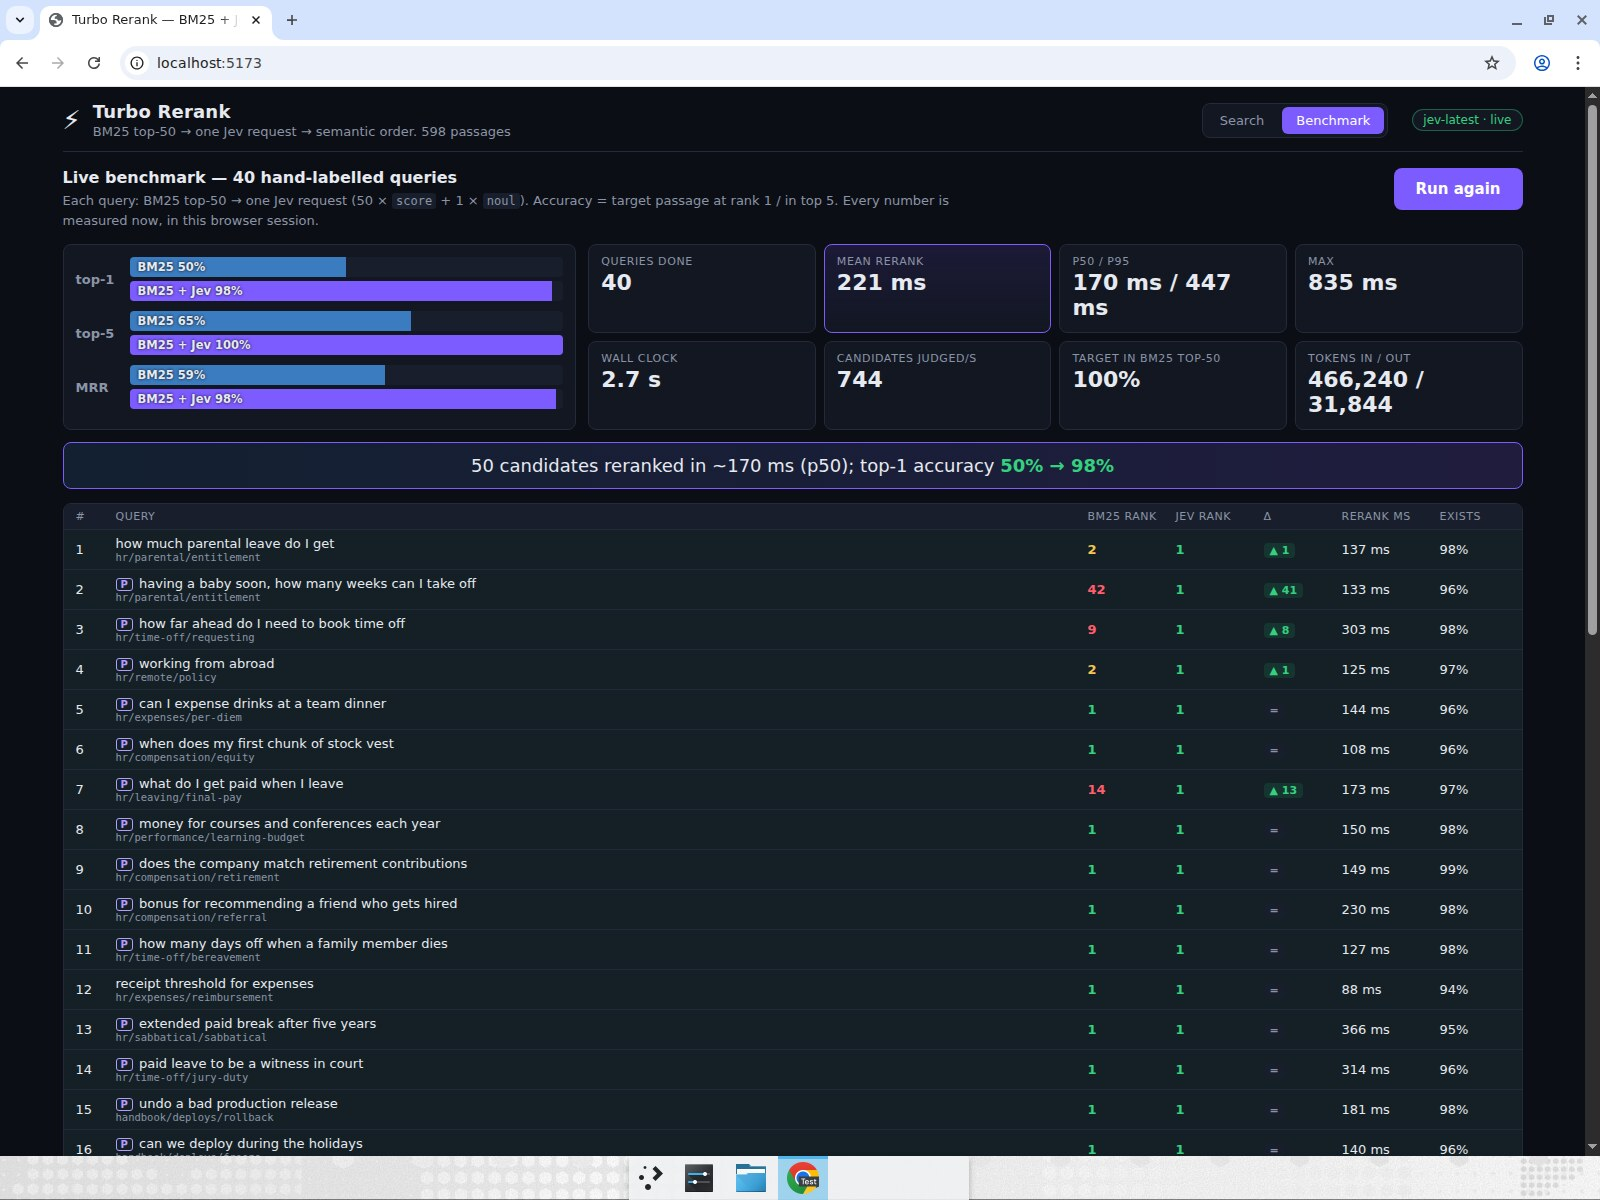
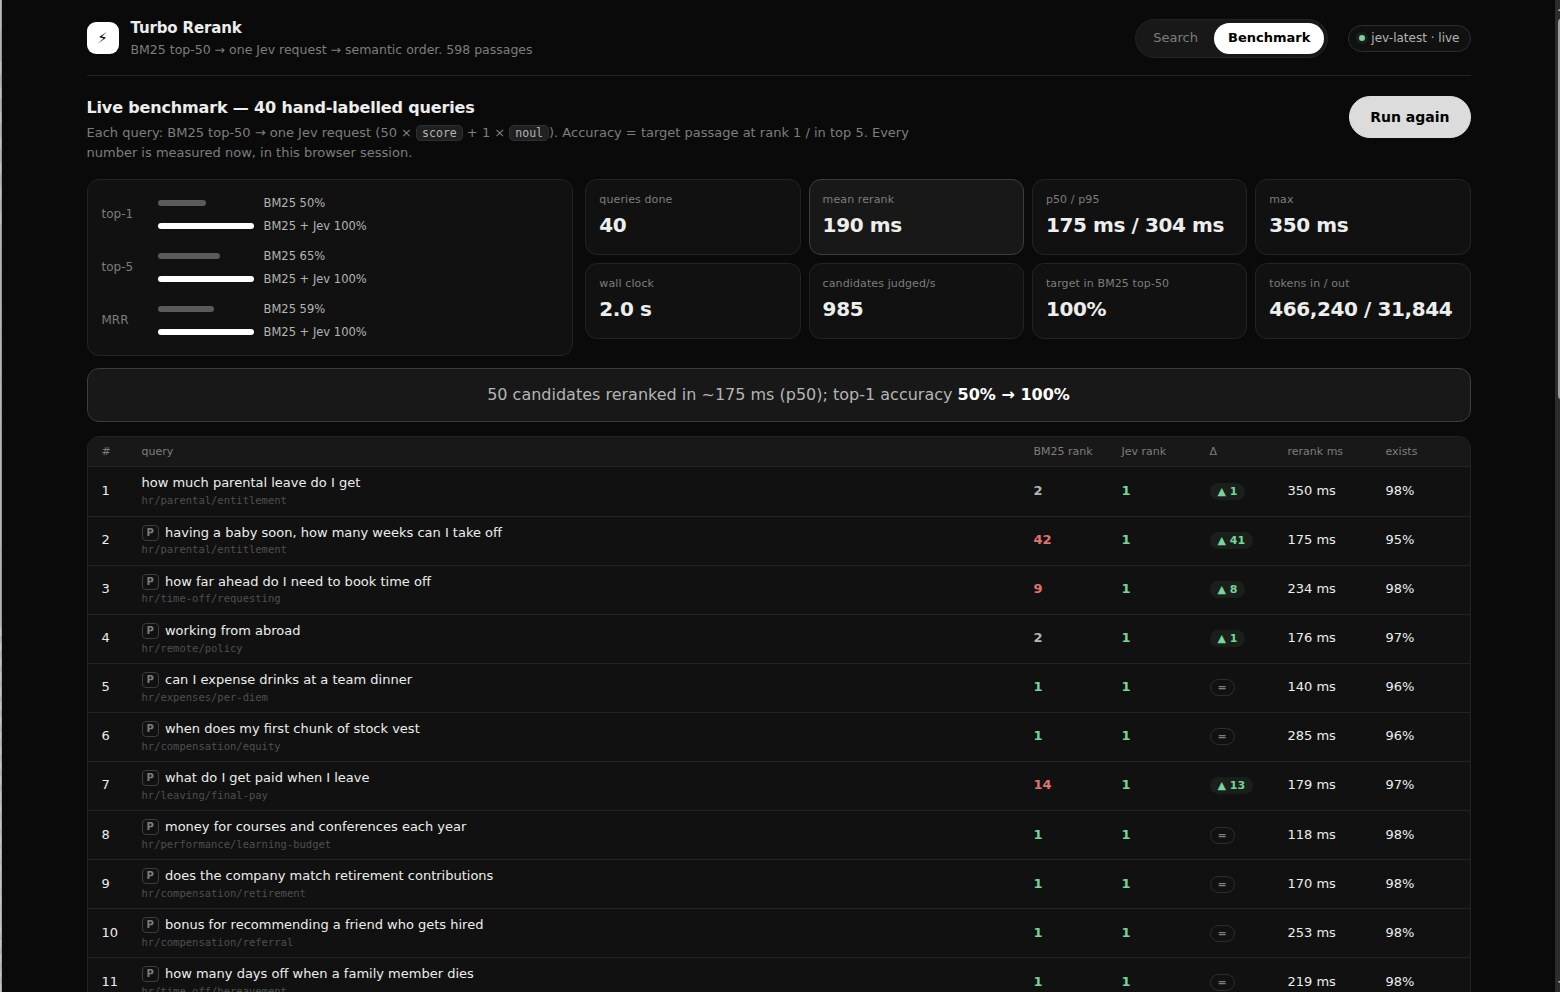
turbo-rerank: monochrome dark UI restyle

diff --git a/turbo-rerank/src/styles.css b/turbo-rerank/src/styles.css
@@ -1,133 +1,160 @@
 :root {
-  --bg: #0b0e14;
-  --panel: #121722;
-  --panel-2: #181e2b;
-  --border: #232b3a;
-  --text: #e6e9ef;
-  --muted: #8b94a7;
-  --accent: #7c5cff;
-  --accent-2: #b39cff;
-  --bm25: #4aa3ff;
-  --good: #35d07f;
-  --ok: #f5c451;
-  --bad: #ff5d6c;
-  --l0: #3a4256;
-  --l1: #f5c451;
-  --l2: #4aa3ff;
-  --l3: #35d07f;
-  font-family: ui-sans-serif, system-ui, -apple-system, "Segoe UI", Roboto, Inter, sans-serif;
+  --bg: #0a0a0a;
+  --panel: #111111;
+  --panel-2: #181818;
+  --panel-3: #202020;
+  --border: #232323;
+  --border-2: #2e2e2e;
+  --border-3: #3d3d3d;
+  --text: #ededed;
+  --text-2: #b4b4b4;
+  --muted: #7d7d7d;
+  --faint: #4f4f4f;
+  --fg: #ffffff;
+  --good: #7ad39b;
+  --bad: #e0716f;
+  --good-bg: rgba(122, 211, 155, 0.08);
+  --bad-bg: rgba(224, 113, 111, 0.08);
+  --l0: #2e2e2e;
+  --l1: #5a5a5a;
+  --l2: #9a9a9a;
+  --l3: #ffffff;
+  --radius: 12px;
+  --radius-sm: 8px;
+  --mono: ui-monospace, "SF Mono", SFMono-Regular, Menlo, Consolas, monospace;
+  font-family: Inter, ui-sans-serif, system-ui, -apple-system, "Segoe UI", Roboto, Helvetica, Arial, sans-serif;
   font-size: 13px;
+  line-height: 1.45;
   color-scheme: dark;
+  -webkit-font-smoothing: antialiased;
 }
 
 * { box-sizing: border-box; }
 html, body, #root { margin: 0; min-height: 100%; background: var(--bg); color: var(--text); }
-code { font-family: ui-monospace, SFMono-Regular, Menlo, monospace; background: var(--panel-2); padding: 1px 4px; border-radius: 3px; font-size: 12px; }
-button { font: inherit; cursor: pointer; }
+::selection { background: #3a3a3a; }
+code { font-family: var(--mono); background: var(--panel-3); border: 1px solid var(--border-2); padding: 0 5px; border-radius: 5px; font-size: 11.5px; color: var(--text-2); }
+button { font: inherit; cursor: pointer; color: inherit; }
+button:focus-visible, input:focus-visible { outline: 2px solid var(--border-3); outline-offset: 1px; }
 
-.app { max-width: 1500px; margin: 0 auto; padding: 14px 20px 40px; }
+.app { max-width: 1440px; margin: 0 auto; padding: 18px 28px 56px; }
 
-.topbar { display: flex; align-items: center; gap: 24px; padding-bottom: 12px; border-bottom: 1px solid var(--border); }
-.brand { display: flex; align-items: center; gap: 12px; flex: 1; }
-.logo { font-size: 26px; }
-.brand h1 { margin: 0; font-size: 18px; letter-spacing: 0.2px; }
-.brand p { margin: 2px 0 0; color: var(--muted); }
-.tabs { display: flex; gap: 4px; background: var(--panel); border: 1px solid var(--border); border-radius: 8px; padding: 3px; }
-.tabs button { background: transparent; border: 0; color: var(--muted); padding: 6px 14px; border-radius: 6px; }
-.tabs button.active { background: var(--accent); color: #fff; }
-.status { display: flex; gap: 8px; }
-.pill { border: 1px solid var(--border); border-radius: 999px; padding: 3px 10px; font-size: 12px; color: var(--muted); background: var(--panel); }
-.pill.ok { color: var(--good); border-color: rgba(53, 208, 127, 0.4); }
-.pill.warn { color: var(--bad); border-color: rgba(255, 93, 108, 0.5); }
-.pill.mock { color: #fff; background: #b3261e; border-color: #b3261e; font-weight: 700; }
+/* top bar */
+.topbar { display: flex; align-items: center; gap: 20px; padding-bottom: 16px; border-bottom: 1px solid var(--border); }
+.brand { display: flex; align-items: center; gap: 12px; flex: 1; min-width: 0; }
+.logo { display: inline-flex; align-items: center; justify-content: center; width: 32px; height: 32px; border-radius: 9px; background: var(--fg); color: #000; font-size: 15px; flex: none; }
+.brand h1 { margin: 0; font-size: 15px; font-weight: 600; letter-spacing: -0.01em; }
+.brand p { margin: 1px 0 0; color: var(--muted); font-size: 12.5px; }
+.tabs { display: inline-flex; gap: 2px; background: var(--panel-2); border: 1px solid var(--border); border-radius: 999px; padding: 3px; }
+.tabs button { background: transparent; border: 0; color: var(--muted); padding: 6px 14px; border-radius: 999px; font-weight: 500; transition: color 0.15s, background 0.15s; }
+.tabs button:hover { color: var(--text); }
+.tabs button.active { background: var(--fg); color: #000; font-weight: 600; }
+.status { display: flex; gap: 6px; }
+.pill { display: inline-flex; align-items: center; gap: 6px; border: 1px solid var(--border-2); border-radius: 999px; padding: 4px 10px; font-size: 12px; color: var(--text-2); background: var(--panel); }
+.pill.ok::before { content: ""; width: 6px; height: 6px; border-radius: 50%; background: var(--good); box-shadow: 0 0 0 3px var(--good-bg); }
+.pill.warn { color: var(--bad); border-color: rgba(224, 113, 111, 0.35); }
+.pill.mock { color: #000; background: #f2f2f2; border-color: #f2f2f2; font-weight: 600; }
 
 /* search */
-.searchbar { display: flex; gap: 8px; margin-top: 16px; }
-.searchbar input { flex: 1; font: inherit; font-size: 16px; padding: 12px 14px; background: var(--panel); color: var(--text); border: 1px solid var(--border); border-radius: 8px; outline: none; }
-.searchbar input:focus { border-color: var(--accent); box-shadow: 0 0 0 3px rgba(124, 92, 255, 0.2); }
-.searchbar button, .primary { background: var(--accent); color: #fff; border: 0; border-radius: 8px; padding: 0 18px; font-weight: 600; }
-.searchbar button:disabled, .primary:disabled { opacity: 0.6; cursor: default; }
-.examples { display: flex; flex-wrap: wrap; gap: 6px; margin: 10px 0 0; }
-.examples button { background: var(--panel); color: var(--muted); border: 1px solid var(--border); border-radius: 999px; padding: 4px 10px; font-size: 12px; }
-.examples button:hover { color: var(--text); border-color: var(--accent); }
+.searchbar { display: flex; gap: 8px; margin-top: 20px; padding: 6px; background: var(--panel); border: 1px solid var(--border-2); border-radius: 16px; box-shadow: 0 1px 2px rgba(0, 0, 0, 0.4), 0 12px 32px -20px rgba(0, 0, 0, 0.9); transition: border-color 0.15s, box-shadow 0.15s; }
+.searchbar:focus-within { border-color: var(--border-3); box-shadow: 0 0 0 4px rgba(255, 255, 255, 0.04), 0 12px 32px -20px rgba(0, 0, 0, 0.9); }
+.searchbar input { flex: 1; font: inherit; font-size: 15.5px; padding: 10px 12px; background: transparent; color: var(--text); border: 0; outline: none; min-width: 0; }
+.searchbar input::placeholder { color: var(--faint); }
+.primary, .searchbar button { background: var(--fg); color: #000; border: 1px solid var(--fg); border-radius: 10px; padding: 0 16px; font-weight: 600; height: 40px; transition: background 0.15s, border-color 0.15s, opacity 0.15s; }
+.primary:hover:not(:disabled), .searchbar button:hover:not(:disabled) { background: #dcdcdc; border-color: #dcdcdc; }
+.primary:disabled, .searchbar button:disabled { background: var(--panel-3); border-color: var(--border-2); color: var(--muted); cursor: default; }
+.examples { display: flex; flex-wrap: wrap; gap: 6px; margin: 12px 2px 0; }
+.examples button { background: transparent; color: var(--muted); border: 1px solid var(--border); border-radius: 999px; padding: 5px 11px; font-size: 12px; transition: color 0.15s, border-color 0.15s, background 0.15s; }
+.examples button:hover { color: var(--text); border-color: var(--border-3); background: var(--panel-2); }
 
-.banner { margin-top: 12px; padding: 10px 14px; border-radius: 8px; background: var(--panel); border: 1px solid var(--border); color: var(--muted); }
-.banner.error { border-color: var(--bad); color: var(--bad); }
-.banner.nogood { border-color: var(--ok); color: #ffe4a1; background: rgba(245, 196, 81, 0.08); }
+.banner { margin-top: 14px; padding: 11px 14px; border-radius: var(--radius); background: var(--panel); border: 1px solid var(--border-2); color: var(--text-2); display: flex; gap: 10px; align-items: baseline; }
+.banner strong { color: var(--text); font-weight: 600; }
+.banner.error { border-color: rgba(224, 113, 111, 0.4); color: var(--bad); }
+.banner.nogood { border-color: var(--border-3); background: var(--panel-2); }
+.banner.nogood::before { content: "!"; flex: none; align-self: center; width: 18px; height: 18px; border-radius: 50%; display: inline-flex; align-items: center; justify-content: center; font-size: 11px; font-weight: 700; background: var(--fg); color: #000; }
 
+/* stats */
 .latency { display: grid; grid-template-columns: repeat(6, 1fr); gap: 8px; margin-top: 14px; }
-.stat, .kpi { background: var(--panel); border: 1px solid var(--border); border-radius: 8px; padding: 10px 12px; }
-.stat.accent, .kpi.accent { border-color: var(--accent); background: linear-gradient(180deg, rgba(124, 92, 255, 0.15), var(--panel)); }
+.stat, .kpi { background: var(--panel); border: 1px solid var(--border); border-radius: var(--radius); padding: 12px 13px; min-width: 0; }
+.stat.accent, .kpi.accent { border-color: var(--border-3); background: var(--panel-2); }
 .stat.good .stat-value { color: var(--good); }
 .stat.bad .stat-value { color: var(--bad); }
-.stat-label { color: var(--muted); font-size: 11px; text-transform: uppercase; letter-spacing: 0.6px; }
-.stat-value { font-size: 22px; font-weight: 700; font-variant-numeric: tabular-nums; margin: 2px 0; }
-.stat-sub { color: var(--muted); font-size: 11px; }
+.stat-label { color: var(--muted); font-size: 11px; font-weight: 500; letter-spacing: 0.01em; }
+.stat-value { font-size: 20px; font-weight: 600; font-variant-numeric: tabular-nums; letter-spacing: -0.02em; margin: 3px 0 2px; white-space: nowrap; overflow: hidden; text-overflow: ellipsis; }
+.stat-sub { color: var(--faint); font-size: 11px; line-height: 1.35; }
 
+/* result columns */
 .columns { display: grid; grid-template-columns: 1fr 1fr; gap: 12px; margin-top: 14px; }
-.columns.empty { display: block; color: var(--muted); padding: 40px; text-align: center; border: 1px dashed var(--border); border-radius: 8px; }
-.column { background: var(--panel); border: 1px solid var(--border); border-radius: 8px; min-width: 0; }
-.column.jev { border-color: rgba(124, 92, 255, 0.5); }
-.column h2 { margin: 0; padding: 10px 12px; font-size: 13px; border-bottom: 1px solid var(--border); display: flex; align-items: center; gap: 8px; }
-.column h2 small { margin-left: auto; color: var(--muted); font-weight: 400; font-variant-numeric: tabular-nums; }
-.tag { font-size: 10px; font-weight: 700; padding: 2px 6px; border-radius: 4px; text-transform: uppercase; letter-spacing: 0.5px; }
-.tag.bm25 { background: rgba(74, 163, 255, 0.2); color: var(--bm25); }
-.tag.jev { background: rgba(124, 92, 255, 0.25); color: var(--accent-2); }
+.columns.empty { display: block; color: var(--muted); padding: 56px 40px; text-align: center; border: 1px dashed var(--border-2); border-radius: var(--radius); }
+.column { background: var(--panel); border: 1px solid var(--border); border-radius: var(--radius); min-width: 0; overflow: hidden; }
+.column.jev { border-color: var(--border-3); }
+.column h2 { margin: 0; padding: 11px 14px; font-size: 13px; font-weight: 500; color: var(--text-2); border-bottom: 1px solid var(--border); display: flex; align-items: center; gap: 8px; background: var(--panel-2); }
+.column h2 small { margin-left: auto; color: var(--muted); font-weight: 400; font-variant-numeric: tabular-nums; font-size: 12px; }
+.tag { font-size: 10px; font-weight: 600; padding: 2px 7px; border-radius: 5px; letter-spacing: 0.04em; text-transform: uppercase; border: 1px solid var(--border-3); color: var(--text-2); }
+.tag.jev { background: var(--fg); color: #000; border-color: var(--fg); }
 .column ol { list-style: none; margin: 0; padding: 0; }
-.hit { display: flex; gap: 10px; padding: 9px 12px; border-bottom: 1px solid var(--border); transition: background 0.2s; }
+.hit { display: flex; gap: 12px; padding: 10px 14px; border-bottom: 1px solid var(--border); transition: background 0.15s; position: relative; }
 .hit:last-child { border-bottom: 0; }
-.hit.winner { background: rgba(53, 208, 127, 0.07); }
-.rank { width: 24px; flex: none; text-align: right; font-weight: 700; color: var(--muted); font-variant-numeric: tabular-nums; font-size: 14px; }
-.hit.winner .rank { color: var(--good); }
+.hit:hover { background: var(--panel-2); }
+.hit.winner { background: var(--panel-2); }
+.hit.winner::before { content: ""; position: absolute; left: 0; top: 0; bottom: 0; width: 2px; background: var(--fg); }
+.rank { width: 22px; flex: none; text-align: right; font-weight: 500; color: var(--faint); font-variant-numeric: tabular-nums; font-size: 13px; padding-top: 1px; }
+.hit.winner .rank { color: var(--fg); font-weight: 600; }
 .body { min-width: 0; flex: 1; }
-.title { font-weight: 600; display: flex; align-items: center; gap: 6px; flex-wrap: wrap; }
-.kind { font-size: 10px; text-transform: uppercase; letter-spacing: 0.5px; padding: 1px 5px; border-radius: 3px; background: var(--panel-2); color: var(--muted); }
-.kind.hr { color: #ff9ecb; } .kind.handbook { color: #9ad1ff; } .kind.api { color: #b39cff; } .kind.runbook { color: #ffc46b; } .kind.architecture { color: #7ee0c1; }
-.hit p { margin: 4px 0; color: #c3c9d6; line-height: 1.4; display: -webkit-box; -webkit-line-clamp: 2; line-clamp: 2; -webkit-box-orient: vertical; overflow: hidden; }
+.title { font-weight: 500; display: flex; align-items: center; gap: 7px; flex-wrap: wrap; color: var(--text); }
+.kind { font-size: 10px; letter-spacing: 0.04em; text-transform: uppercase; padding: 1px 6px; border-radius: 5px; border: 1px solid var(--border-2); color: var(--muted); font-weight: 500; }
+.hit p { margin: 4px 0; color: var(--muted); line-height: 1.45; display: -webkit-box; -webkit-line-clamp: 2; line-clamp: 2; -webkit-box-orient: vertical; overflow: hidden; }
 .hit:hover p { -webkit-line-clamp: unset; line-clamp: unset; }
-.meta { color: var(--muted); font-size: 11px; font-family: ui-monospace, monospace; }
-.delta { margin-left: auto; font-size: 11px; font-weight: 700; padding: 1px 6px; border-radius: 4px; font-variant-numeric: tabular-nums; }
-.delta.up { color: var(--good); background: rgba(53, 208, 127, 0.12); }
-.delta.down { color: var(--bad); background: rgba(255, 93, 108, 0.12); }
-.delta.same { color: var(--muted); background: var(--panel-2); }
-.relbar { position: relative; height: 16px; background: var(--panel-2); border-radius: 4px; margin: 5px 0 2px; overflow: hidden; }
-.relbar .fill { height: 100%; transition: width 0.4s ease; }
+.meta { color: var(--faint); font-size: 11px; font-family: var(--mono); }
+.delta { margin-left: auto; font-size: 11px; font-weight: 600; padding: 1px 7px; border-radius: 999px; font-variant-numeric: tabular-nums; border: 1px solid transparent; }
+.delta.up { color: var(--good); background: var(--good-bg); }
+.delta.down { color: var(--bad); background: var(--bad-bg); }
+.delta.same { color: var(--muted); border-color: var(--border-2); }
+.rel { display: flex; align-items: center; gap: 10px; margin: 6px 0 3px; }
+.rellabel { font-size: 11px; color: var(--text-2); font-variant-numeric: tabular-nums; white-space: nowrap; }
+.rellabel b { font-weight: 600; color: var(--text); }
+.hit.level-0 .rellabel b { color: var(--muted); }
+.track { flex: 1; height: 3px; background: var(--panel-3); border-radius: 999px; overflow: hidden; max-width: 260px; }
+.track .fill { height: 100%; border-radius: 999px; transition: width 0.4s ease; }
 .fill.level-0 { background: var(--l0); } .fill.level-1 { background: var(--l1); } .fill.level-2 { background: var(--l2); } .fill.level-3 { background: var(--l3); }
-.rellabel { position: absolute; inset: 0; display: flex; align-items: center; padding-left: 6px; font-size: 10.5px; font-weight: 600; color: #fff; text-shadow: 0 0 3px rgba(0, 0, 0, 0.8); }
 .skeleton { opacity: 0.35; }
-.column.loading h2 small { color: var(--accent-2); animation: pulse 1s infinite; }
-@keyframes pulse { 50% { opacity: 0.4; } }
+.column.loading h2 small { color: var(--text-2); animation: pulse 1.2s infinite; }
+@keyframes pulse { 50% { opacity: 0.35; } }
 
 /* bench */
-.bench { margin-top: 16px; }
+.bench { margin-top: 20px; }
 .bench-head { display: flex; align-items: flex-start; gap: 20px; }
-.bench-head h2 { margin: 0 0 4px; font-size: 16px; }
-.bench-head p { margin: 0; color: var(--muted); max-width: 900px; line-height: 1.5; }
-.bench-head .primary { margin-left: auto; padding: 12px 22px; font-size: 15px; white-space: nowrap; }
-.mockwarn { color: #ff8a80; }
-.chart { display: grid; grid-template-columns: 1.1fr 2fr; gap: 12px; margin-top: 14px; }
-.bars { background: var(--panel); border: 1px solid var(--border); border-radius: 8px; padding: 12px; display: flex; flex-direction: column; gap: 10px; }
-.bargroup { display: grid; grid-template-columns: 44px 1fr; gap: 4px 10px; align-items: center; }
-.barlabel { grid-row: span 2; font-weight: 700; color: var(--muted); }
-.bar { position: relative; height: 20px; background: var(--panel-2); border-radius: 4px; overflow: hidden; }
-.bar .fill { height: 100%; transition: width 0.5s ease; }
-.bar .fill.bm25 { background: var(--bm25); opacity: 0.7; }
-.bar .fill.jev { background: var(--accent); }
-.bar span { position: absolute; inset: 0; display: flex; align-items: center; padding-left: 8px; font-size: 11.5px; font-weight: 600; text-shadow: 0 0 3px rgba(0, 0, 0, 0.9); }
+.bench-head h2 { margin: 0 0 4px; font-size: 16px; font-weight: 600; letter-spacing: -0.01em; }
+.bench-head p { margin: 0; color: var(--muted); max-width: 860px; line-height: 1.55; }
+.bench-head .primary { margin-left: auto; padding: 0 20px; height: 42px; font-size: 14px; white-space: nowrap; border-radius: 999px; }
+.mockwarn { color: var(--text); }
+.chart { display: grid; grid-template-columns: 1.1fr 2fr; gap: 12px; margin-top: 16px; }
+.bars { background: var(--panel); border: 1px solid var(--border); border-radius: var(--radius); padding: 14px; display: flex; flex-direction: column; gap: 12px; }
+.bargroup { display: grid; grid-template-columns: 44px 1fr; gap: 5px 12px; align-items: center; }
+.barlabel { grid-row: span 2; font-weight: 500; color: var(--muted); font-size: 12px; }
+.bar { display: grid; grid-template-columns: 96px 1fr; align-items: center; gap: 10px; height: 18px; }
+.bar span { font-size: 11.5px; color: var(--text-2); font-variant-numeric: tabular-nums; white-space: nowrap; }
+.bar .fill { height: 6px; border-radius: 999px; transition: width 0.5s ease; justify-self: start; min-width: 0; }
+.bar .fill.bm25 { background: var(--l1); }
+.bar .fill.jev { background: var(--fg); }
 .kpis { display: grid; grid-template-columns: repeat(4, 1fr); gap: 8px; align-content: start; }
-.headline { grid-column: 1 / -1; text-align: center; font-size: 18px; padding: 12px; background: linear-gradient(90deg, rgba(74, 163, 255, 0.12), rgba(124, 92, 255, 0.18)); border: 1px solid var(--accent); border-radius: 8px; }
-.headline b { color: var(--good); }
-.bench-table { margin-top: 14px; background: var(--panel); border: 1px solid var(--border); border-radius: 8px; overflow: hidden; }
-.brow { display: grid; grid-template-columns: 32px 1fr 80px 80px 70px 90px 70px; gap: 8px; padding: 6px 12px; border-bottom: 1px solid var(--border); align-items: center; font-variant-numeric: tabular-nums; }
+.headline { grid-column: 1 / -1; text-align: center; font-size: 16px; padding: 14px; background: var(--panel-2); border: 1px solid var(--border-3); border-radius: var(--radius); color: var(--text-2); }
+.headline b { color: var(--fg); font-weight: 600; }
+.bench-table { margin-top: 14px; background: var(--panel); border: 1px solid var(--border); border-radius: var(--radius); overflow: hidden; }
+.brow { display: grid; grid-template-columns: 32px 1fr 80px 80px 70px 90px 70px; gap: 8px; padding: 7px 14px; border-bottom: 1px solid var(--border); align-items: center; font-variant-numeric: tabular-nums; color: var(--text-2); }
 .brow:last-child { border-bottom: 0; }
-.brow.head { color: var(--muted); font-size: 11px; text-transform: uppercase; letter-spacing: 0.5px; background: var(--panel-2); }
-.brow.hit { background: rgba(53, 208, 127, 0.05); }
-.brow.miss { background: rgba(255, 93, 108, 0.06); }
-.brow.err { background: rgba(255, 93, 108, 0.12); }
-.brow .q { display: flex; flex-direction: column; }
-.brow .q small { color: var(--muted); font-family: ui-monospace, monospace; font-size: 10.5px; }
+.brow.head { color: var(--muted); font-size: 11px; font-weight: 500; background: var(--panel-2); }
+.brow.hit { color: var(--text); }
+.brow.miss { background: var(--bad-bg); }
+.brow.err { background: var(--bad-bg); }
+.brow .q { display: flex; flex-direction: column; min-width: 0; }
+.brow .q small { color: var(--faint); font-family: var(--mono); font-size: 10.5px; }
 .brow .q .errtext { color: var(--bad); font-family: inherit; }
-.ptag { display: inline-block; font-size: 10px; font-weight: 700; color: var(--accent-2); border: 1px solid var(--accent-2); border-radius: 3px; padding: 0 4px; margin-right: 2px; }
-.rk { font-weight: 700; }
-.rk.good { color: var(--good); } .rk.ok { color: var(--ok); } .rk.bad { color: var(--bad); }
+.ptag { display: inline-block; font-size: 10px; font-weight: 600; color: var(--muted); border: 1px solid var(--border-3); border-radius: 4px; padding: 0 4px; margin-right: 2px; line-height: 14px; vertical-align: 1px; }
+.rk { font-weight: 600; }
+.rk.good { color: var(--good); } .rk.ok { color: var(--text-2); } .rk.bad { color: var(--bad); }
 .delta-cell .delta { margin-left: 0; }
+
+@media (max-width: 1100px) {
+  .latency { grid-template-columns: repeat(3, 1fr); }
+  .columns, .chart { grid-template-columns: 1fr; }
+}

diff --git a/turbo-rerank/src/ResultColumns.tsx b/turbo-rerank/src/ResultColumns.tsx
@@ -74,11 +74,13 @@ function JevHit({ r }: { r: RankedResult }) {
           <span className={`kind ${r.kind}`}>{r.kind}</span> {r.title}
           <RankDelta from={r.bm25Rank} to={r.jevRank} />
         </div>
-        <div className="relbar" title={`relevance ${r.relevance.toFixed(2)} / 3, confidence ${(r.confidence * 100).toFixed(0)}%`}>
-          <div className={`fill level-${r.level}`} style={{ width: `${pct}%` }} />
+        <div className="rel" title={`relevance ${r.relevance.toFixed(2)} / 3, confidence ${(r.confidence * 100).toFixed(0)}%`}>
           <span className="rellabel">
-            {RELEVANCE_LABELS[r.level]} · {r.relevance.toFixed(2)} · conf {(r.confidence * 100).toFixed(0)}%
+            <b>{RELEVANCE_LABELS[r.level]}</b> · {r.relevance.toFixed(2)} · conf {(r.confidence * 100).toFixed(0)}%
           </span>
+          <div className="track">
+            <div className={`fill level-${r.level}`} style={{ width: `${pct}%` }} />
+          </div>
         </div>
         <p>{r.text}</p>
         <div className="meta">was #{r.bm25Rank} in BM25 · {r.id}</div>
